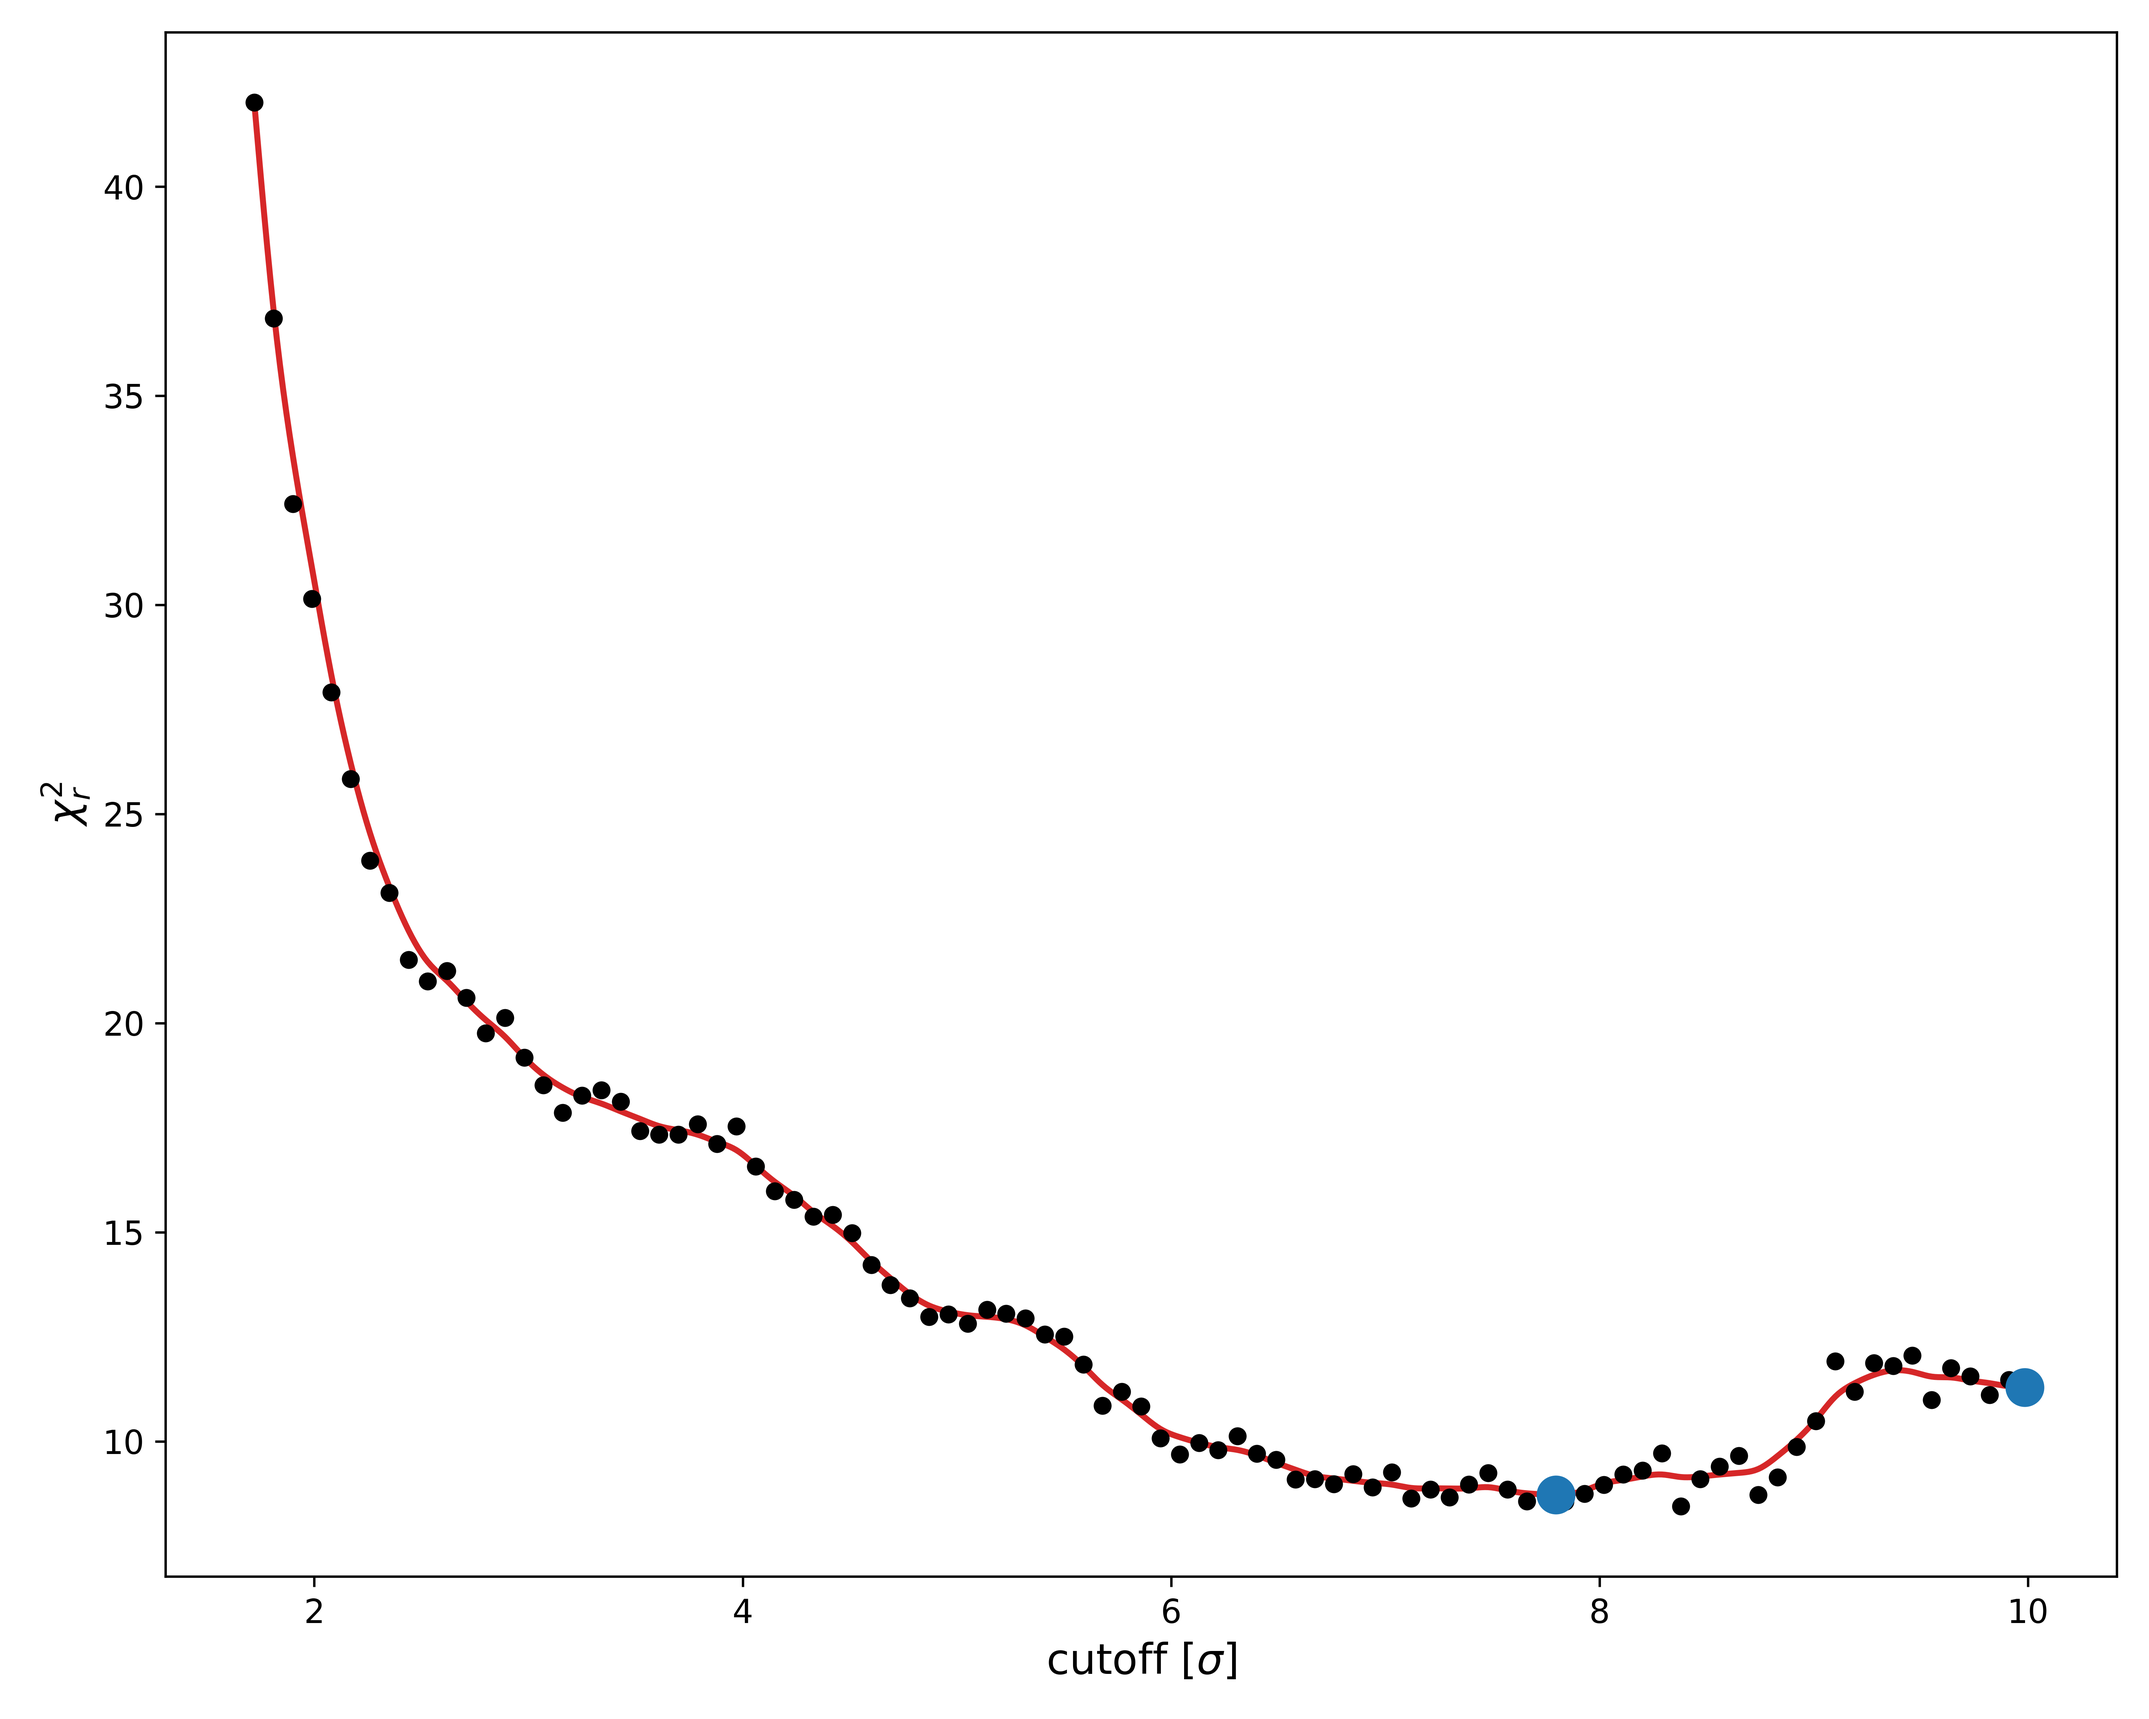
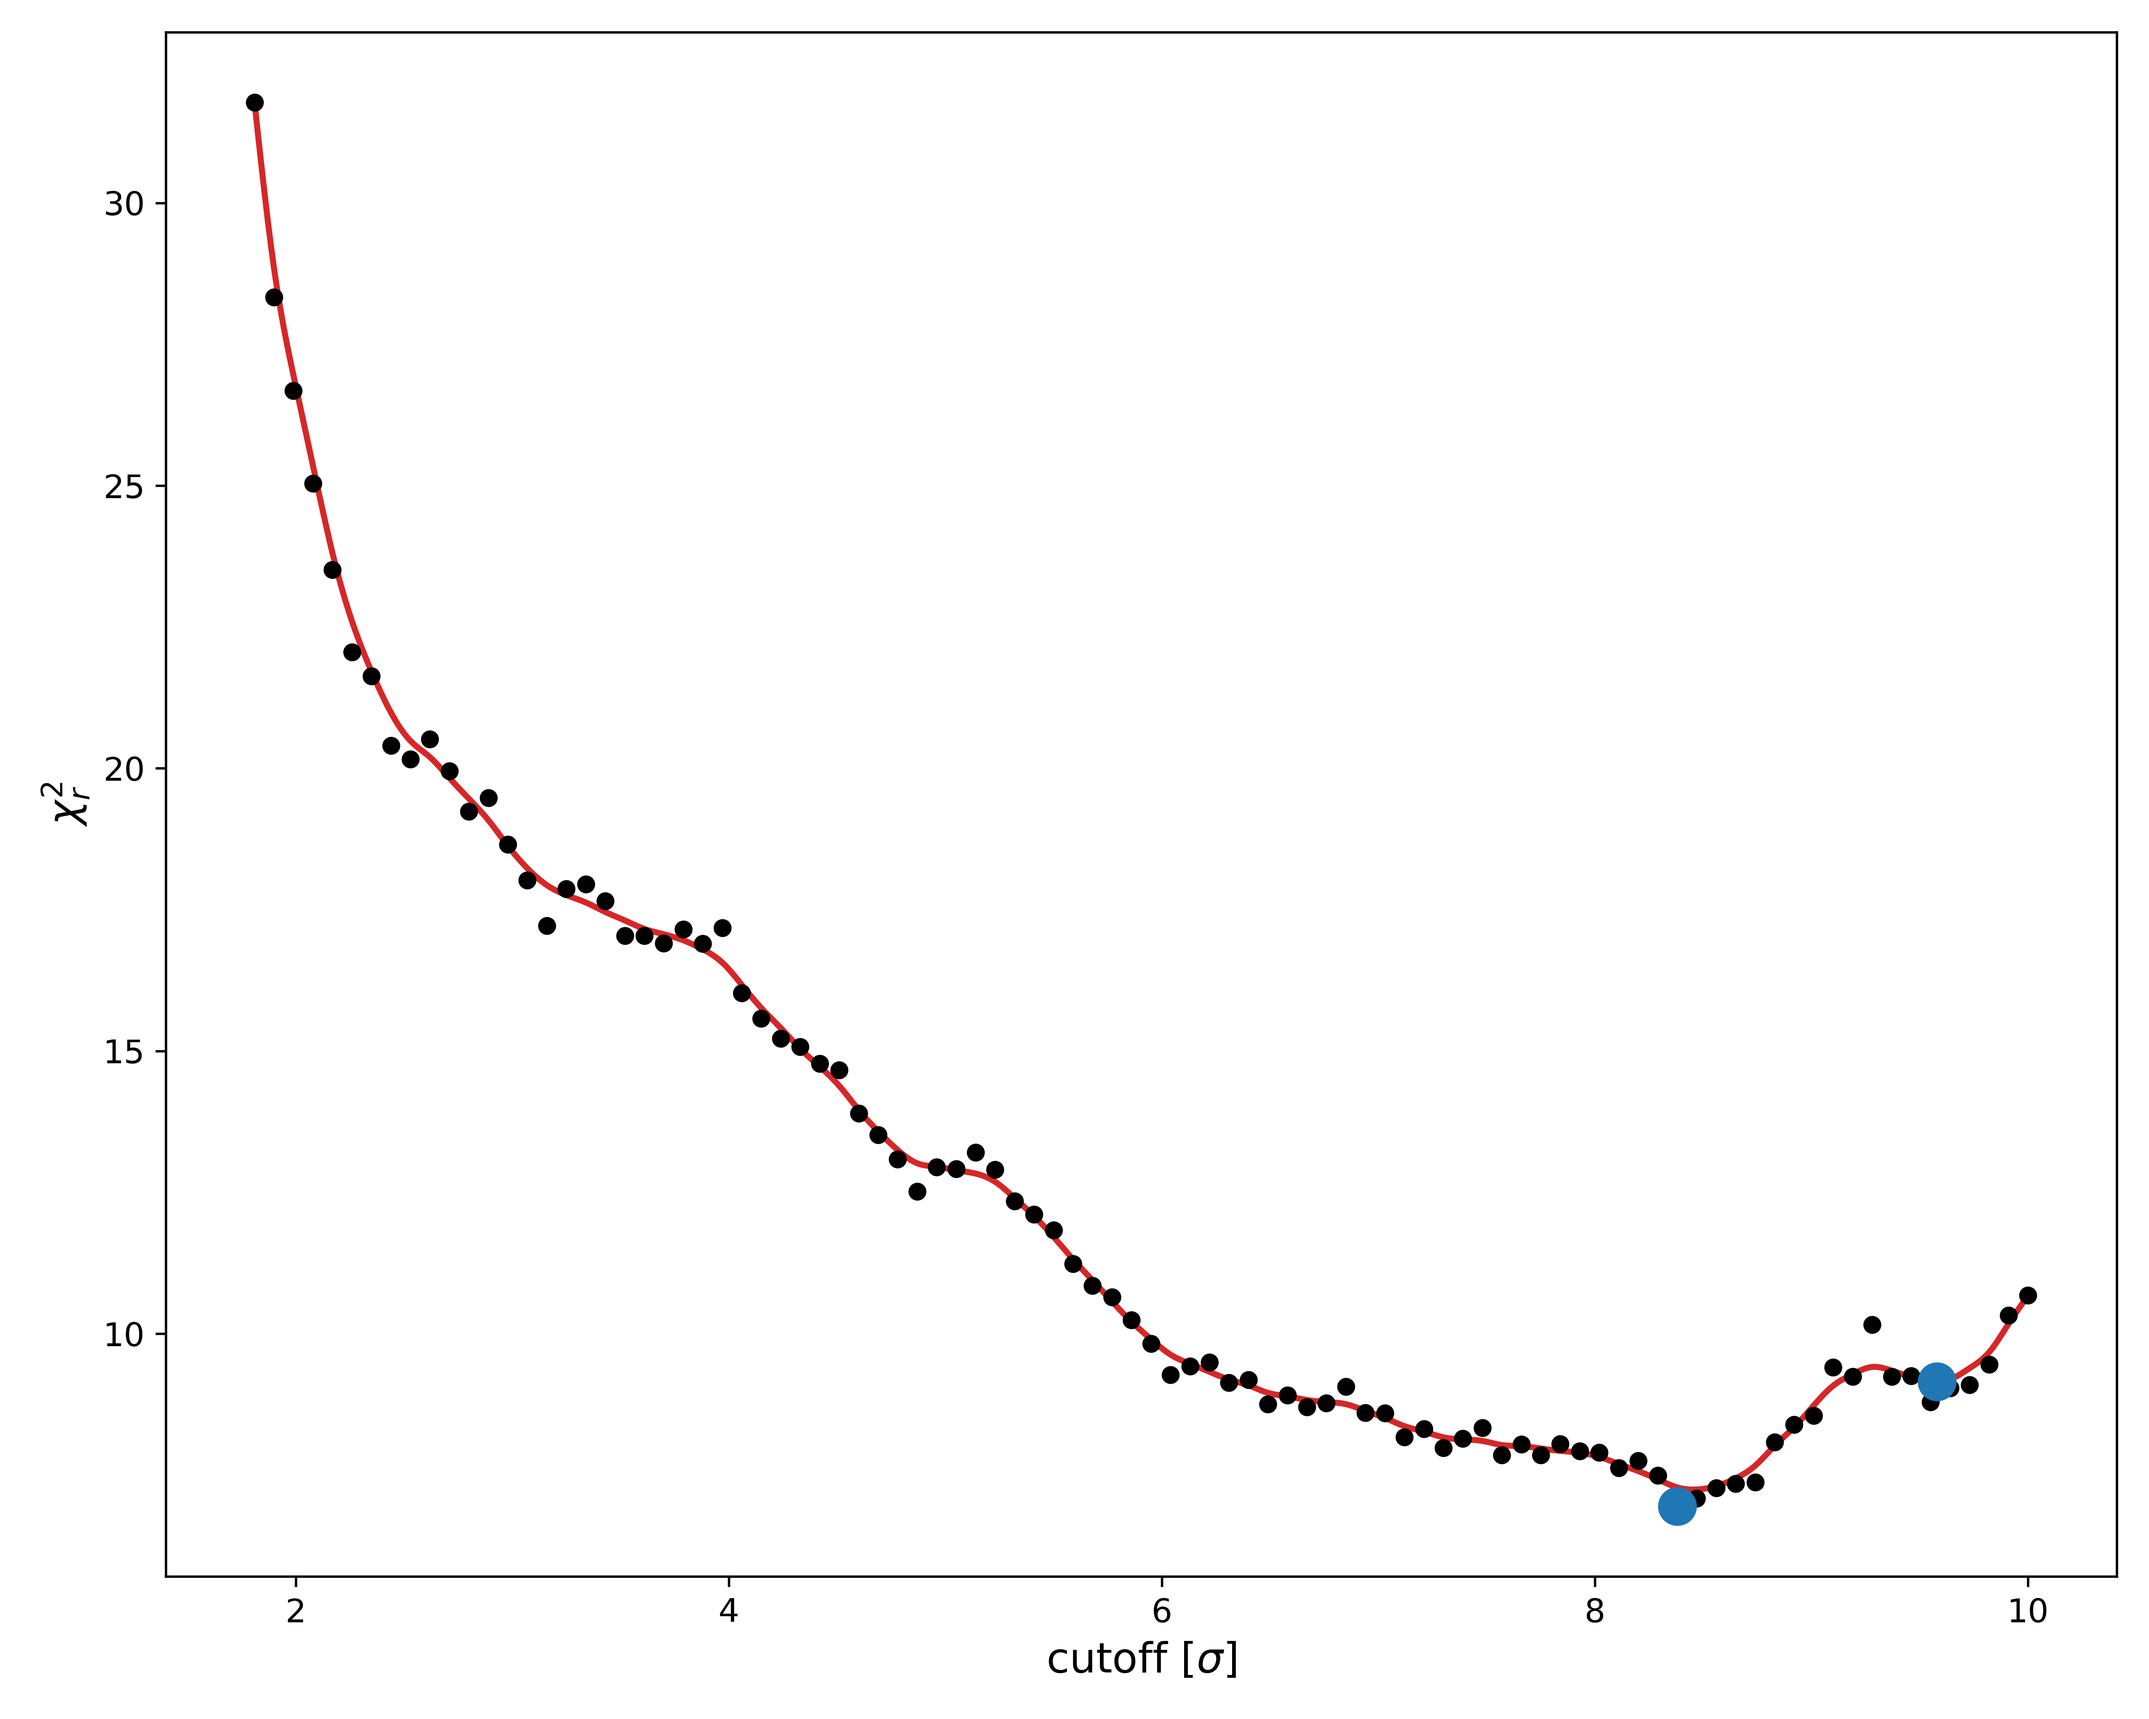
updated figs

diff --git a/SAXS_EM/SAXS_EM.html b/SAXS_EM/SAXS_EM.html
@@ -89,7 +89,7 @@ In this tutorial you will learn how to use the EM validation program of the AUSA
 			For this run only, set the "sample frequency" to 2 (and make sure to hit "enter"!). Then click the "start" button.</li>
 		<li>Command-line interface: <br> 
 			Move all files to the same directory, and launch a terminal from there. <br>
-			Then run the command: <code>em_fitter emd_24889.map SASDJG5.dat --frequency 2</code></li>
+			Then run the command: <code>em_fitter emd_24889.map SASDJG5.dat --frequency 2 --qmax 1</code></li>
 			<ul> When the program is done, run the following plotting command:
 				<li><i>Windows</i>: <code>./plotter.exe</code></li>
 				<li><i>Mac or Linux</i>: <code>python scripts/plot.py</code></li>
@@ -185,17 +185,15 @@ In this tutorial you will learn how to use the EM validation program of the AUSA
 		Since we are impatient and know there are no minima at $\sigma$ &lt; 6 anyway, let us skip these too by also modifying the minimum level. <br><br>
 		<img src="chi2_landscape_2.png" style="width:500px"/><br>
 
-		Looking at the new chi-square landscape, it appears as though our original bounds were fine. 
-		Let us now see what happens if we use <i>all</i> the map data, without discarding anything.
-		Set the sampling frequency to 1 and rerun the fit, making sure to use the new bounds. <br><br>
+		Looking at the new chi-square landscape, it appears as though our original bounds were fine.
+		Since there is a rather large amount of noise in the $\chi^2_r$ values, let us rerun the fit without discarding any data.
+		Set the sampling frequency to 1 and rerun the fit, making sure to use the new bounds.
 		Since we are only scanning relatively high alpha-levels, this shouldn't take too long. <br><br>
 		<img src="chi2_landscape_3.png" style="width:500px"/><br>
 
-		Curiously, this new chi-square landscape has a larger variation than the previous one.
-		The cause of this is not immediately clear, though one explanation can be given by comparing the "report.txt" files.
-		Here, the hydration shell scattering power parameter "cw" is significantly higher in the new fit, meaning the hydration
-		is more important now than before. This could thus indicate that the optimization is more difficult, thus leading to 
-		a larger variation in the fitted values. <br>
+		As we can see, this was only partially successful. The new chi-square landscape is still quite noisy, which is likely due to the hydration shell. 
+		When looking at the fitted parameters in the "report.txt" file, we see that the hydration shell scattering power parameter "cw" is significantly higher in the new fit, 
+		meaning the hydration is more important now than before. This would indicate the optimization is more difficult, and hence the larger variation in the fitted values. <br><br>
 
 		Regardless, we see that the minimum $\chi^2_r$-value around $\sigma$ = 7.5 is still the best, which roughly agrees with what we found previously. 
 		We can also confirm this value by looking at the "info.txt" file inside the "models" folder. <br><br>
